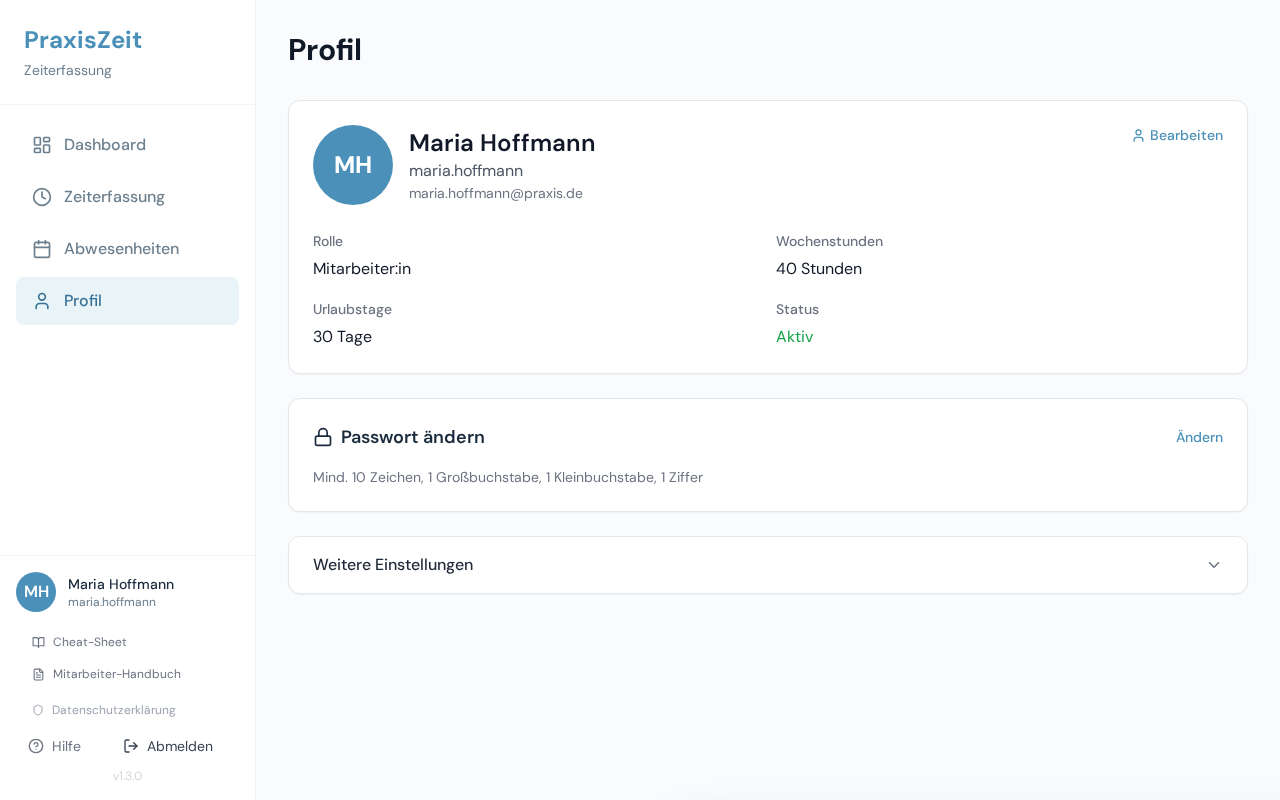
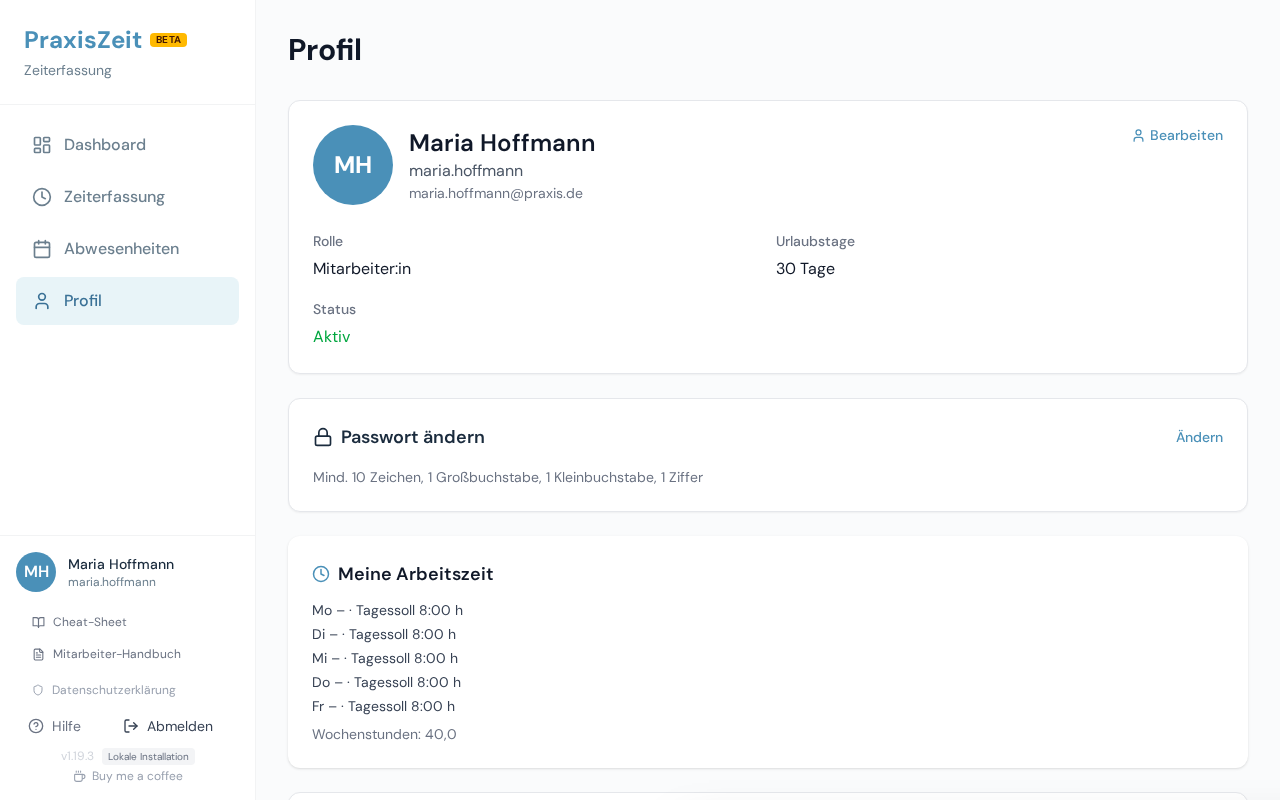
docs(screenshots): Demo-Person mit Arbeitszeit-Blöcken, Handbuch-Bilder 10/16/17 neu
Seed: Sarah Klein bekommt Blöcke 08–12 + 15–16 (Soll unverändert 25 h)
und zwei über die Mittagslücke durchgestempelte Montage, gekappt über den
echten clamp; die Blöcke je Tag kommen über den Resolver
(get_scheduled_blocks). Aufnahmeskripte öffnen den Block-Editor beim
Anlegen (mit der Beispielwoche aus dem Handbuch) und das
Bearbeiten-Formular der Demo-Person. Bild 10 (Profil) zeigt die Karte
„Meine Arbeitszeit" statt der Wochenstunden in den persönlichen Daten.

Über den Plan hinaus: Das Aufnahmeskript schließt das
Willkommens-Fenster (#132) neu angelegter Demo-Personen und wartet auf
den POST – sonst verdeckte es alle Mitarbeiter-Bilder. Lange Formulare
(16/17) werden mit bis zur Formular-Unterkante gestrecktem Fenster
aufgenommen, weil die App in <main> scrollt und fullPage nur das Fenster
zeigt. HANDBUCH-ERSTELLEN nennt Seed, Aufnahme und das Zurücksetzen des
Admin-Passworts für die E2E-Tests.

diff --git a/e2e/capture-handbook-screenshots.ts b/e2e/capture-handbook-screenshots.ts
@@ -9,7 +9,7 @@
  * Usage:
  *   cd e2e && npx tsx capture-handbook-screenshots.ts
  */
-import { chromium, Browser, Page } from '@playwright/test';
+import { chromium, Browser, Locator, Page } from '@playwright/test';
 import { mkdirSync } from 'fs';
 import { resolve } from 'path';
 
@@ -29,12 +29,63 @@ async function login(page: Page, username: string, password: string) {
   await page.getByRole('button', { name: /anmelden/i }).click();
   await page.waitForURL((url) => !url.pathname.startsWith('/login'), { timeout: 10_000 });
   await page.waitForLoadState('networkidle');
+  // #132: frisch angelegte Demo-Personen sehen beim ersten Login das
+  // Willkommens-Fenster (ganzseitige Überlagerung) — es verdeckte alle Bilder
+  // und schluckte die Klicks auf „Neuer Eintrag" usw. „Los geht's" schließt es
+  // dauerhaft (POST /auth/onboarding/complete), wie die E2E-Fixtures.
+  const welcome = page.getByRole('button', { name: "Los geht's" });
+  if (await welcome.waitFor({ state: 'visible', timeout: 3000 }).then(() => true).catch(() => false)) {
+    // Auf die Antwort warten: das nächste page.goto() bräche den POST sonst ab,
+    // und das Fenster stünde nach dem Neuladen wieder da.
+    await Promise.all([
+      page.waitForResponse((r) => r.url().includes('/auth/onboarding/complete'), { timeout: 5000 }),
+      welcome.click(),
+    ]).catch(() => console.log(`  ! Willkommens-Fenster für ${username} nicht geschlossen`));
+  }
 }
 
 async function shot(page: Page, name: string, opts: { fullPage?: boolean } = {}) {
   const path = resolve(SHOTS_DIR, `${name}.png`);
   await page.screenshot({ path, fullPage: opts.fullPage ?? true, type: 'png' });
   console.log(`  ✓ ${name}.png`);
+}
+
+/**
+ * Die App scrollt in ihrem Inhaltsbereich (`<main>`), nicht im Dokument —
+ * `fullPage` nimmt deshalb nur das Fenster auf, und ein langes Formular wäre
+ * abgeschnitten. Das Fenster wird für die Aufnahme bis zur Unterkante von
+ * `until` gestreckt und danach zurückgesetzt. Die Fokus-Markierung (Autofokus,
+ * zuletzt befülltes Feld) wird vorher entfernt.
+ */
+async function shotUntil(page: Page, name: string, until: Locator) {
+  const viewport = page.viewportSize() ?? DESKTOP;
+  await page.evaluate(() => (document.activeElement as HTMLElement | null)?.blur());
+  await until.evaluate((el) => {
+    for (let p = el.parentElement; p; p = p.parentElement) p.scrollTop = 0;
+  });
+  const box = await until.boundingBox();
+  if (box) {
+    await page.setViewportSize({ width: viewport.width, height: Math.ceil(box.y + box.height + 24) });
+    await page.waitForTimeout(300);
+  }
+  await shot(page, name, { fullPage: false });
+  await page.setViewportSize(viewport);
+}
+
+/** Beispielwoche aus dem Handbuch: Mo–Do 08:00–12:00 + 15:00–18:00 mit 30 Min
+ *  Pause (Tagessoll 6:30 h), Fr 08:00–13:00. */
+async function fillExampleBlocks(page: Page) {
+  for (const day of ['Mo', 'Di', 'Mi', 'Do', 'Fr']) {
+    const spans = day === 'Fr' ? [['08:00', '13:00']] : [['08:00', '12:00'], ['15:00', '18:00']];
+    for (const [n, [von, bis]] of spans.entries()) {
+      await page.getByRole('button', { name: `${day}: Block hinzufügen` }).click();
+      await page.getByLabel(`${day} Block ${n + 1} von`).fill(von);
+      await page.getByLabel(`${day} Block ${n + 1} bis`).fill(bis);
+    }
+    if (spans.length > 1) {
+      await page.getByLabel(`${day} Pause innerhalb der Blöcke (Min)`).fill('30');
+    }
+  }
 }
 
 async function captureEmployeeShots(browser: Browser) {
@@ -165,20 +216,33 @@ async function captureAdminShots(browser: Browser) {
     const newBtn = page.getByRole('button', { name: /neue:?r? ?mitarbeiter|neuer mitarbeiter|\+ mitarbeiter/i }).first();
     await newBtn.click({ timeout: 2000 });
     await page.waitForTimeout(500);
-    await shot(page, '16-admin-benutzer-formular');
+    // 1.20.0: Block-Editor zeigen (Modus „Nach Arbeitsblöcken") — mit der
+    // Beispielwoche, sonst stünden nur „kein Arbeitstag" und eine Fehlermeldung da.
+    const blockMode = page.getByText('Nach Arbeitsblöcken', { exact: true }).first();
+    if (await blockMode.isVisible().catch(() => false)) {
+      await blockMode.click();
+      await page.waitForTimeout(300);
+      await fillExampleBlocks(page).catch(() =>
+        console.log('  ! 16-admin-benutzer-formular: Block-Editor nicht befüllbar'));
+    }
+    await shotUntil(page, '16-admin-benutzer-formular', page.locator('form').first());
     const cancel = page.getByRole('button', { name: /abbrechen|schließen/i }).first();
     if (await cancel.isVisible().catch(() => false)) await cancel.click();
   } catch {
     console.log('  ! 16-admin-benutzer-formular: Button nicht gefunden');
   }
 
-  // 17 Benutzer bearbeiten (click erster User-Row)
+  // 17 Benutzer bearbeiten — Demo-Person mit Arbeitszeit-Blöcken (Sarah Klein)
   try {
     await page.waitForTimeout(500);
-    const editBtn = page.getByRole('button', { name: /bearbeiten/i }).first();
+    const kleinRow = page.getByRole('row', { name: /Klein/ }).first();
+    const editBtn = (await kleinRow.isVisible().catch(() => false))
+      ? kleinRow.getByRole('button', { name: /bearbeiten/i }).first()
+      : page.getByRole('button', { name: /bearbeiten/i }).first();
     await editBtn.click({ timeout: 2000 });
     await page.waitForTimeout(500);
-    await shot(page, '17-admin-benutzer-bearbeiten');
+    // Ganzes Formular: oben „Arbeitszeit anpassen…", unten „Arbeitszeit heute".
+    await shotUntil(page, '17-admin-benutzer-bearbeiten', page.locator('form').first());
     const cancel = page.getByRole('button', { name: /abbrechen|schließen/i }).first();
     if (await cancel.isVisible().catch(() => false)) await cancel.click();
   } catch {

diff --git a/tools/handbook/handbuch-screenshots.js b/tools/handbook/handbuch-screenshots.js
@@ -173,25 +173,31 @@ async function clickButtonByText(page, texts) {
     await shot(ap, '15-admin-benutzer.png', true);
 
     // 16 Neuen Benutzer anlegen
-    await clickButtonByText(ap, ['Neuer Benutzer', 'Benutzer anlegen', 'Neuen Mitarbeiter', 'Hinzufügen', '+']);
+    await clickButtonByText(ap, ['Neue:r Mitarbeiter:in', 'Neuer Benutzer', 'Benutzer anlegen', 'Neuen Mitarbeiter', 'Hinzufügen', '+']);
     await sleep(1000);
+    await ap.evaluate(() => {
+      const el = [...document.querySelectorAll('label, button')]
+        .find(e => e.textContent.trim() === 'Nach Arbeitsblöcken');
+      if (el) el.click();
+    });
+    await sleep(500);
     await shot(ap, '16-admin-benutzer-formular.png', true);
     await ap.keyboard.press('Escape');
     await sleep(500);
 
     // 17 Einen Benutzer bearbeiten (erneut Formular-Screenshot)
     await goto(ap, '/admin/users');
-    // Klick auf den ersten "Bearbeiten"-Button mit direktem Selektor
+    // Bearbeiten-Button in der Zeile der Demo-Person mit Arbeitszeit-Blöcken (Sarah Klein)
     try {
-      const editBtns = await ap.$$('button');
-      for (const btn of editBtns) {
-        const text = await ap.evaluate(el => el.textContent.trim(), btn);
-        if (text.includes('Bearbeiten') || text.includes('Edit')) {
-          await btn.click();
-          await sleep(1000);
-          break;
-        }
-      }
+      const clicked = await ap.evaluate(() => {
+        const row = [...document.querySelectorAll('tr')].find(tr => tr.textContent.includes('Klein'));
+        const btn = row && [...row.querySelectorAll('button')].find(b =>
+          (b.getAttribute('aria-label') || b.title || b.textContent || '').includes('Bearbeiten'));
+        if (btn) { btn.click(); return true; }
+        return false;
+      });
+      if (!clicked) console.log('  ~ Zeile „Klein" mit Bearbeiten-Button nicht gefunden');
+      await sleep(1000);
     } catch(e) { console.log('  ~ Kein Bearbeiten-Button gefunden'); }
     await shot(ap, '17-admin-benutzer-bearbeiten.png', true);
     await ap.keyboard.press('Escape');

diff --git a/backend/create_handbuch_testdata.py b/backend/create_handbuch_testdata.py
@@ -18,6 +18,8 @@ from app.models import (
 from app.models.change_request import ChangeRequestStatus, ChangeRequestType
 from app.models.user import UserRole
 from app.services import auth_service
+from app.services import work_window_service
+from app.services.work_blocks_service import derive_targets
 
 random.seed(42)  # Reproduzierbar
 
@@ -64,6 +66,13 @@ EMPLOYEES = [
         "track_hours": True,
         "is_night_worker": False,
         "exempt_from_arbzg": False,
+        # 1.20.0: Demo für Handbuch-Screenshots 16/17 — Vormittag + Nachmittag mit
+        # Mittagslücke; Tagessoll 4 h + 1 h = 5 h, also unverändert 25 h/Woche.
+        "work_blocks": [
+            {"blocks": [{"start": "08:00", "end": "12:00"}, {"start": "15:00", "end": "16:00"}],
+             "pause_minutes": 0}
+            for _ in range(5)
+        ],
     },
     {
         "username": "petra.schulz",
@@ -97,6 +106,10 @@ EMPLOYEES = [
 START_DATE = date(2026, 1, 5)   # Erster Arbeitstag (Mo nach Neujahr)
 END_DATE   = date(2026, 2, 27)  # Gestern (Fr)
 
+# Tage, an denen die Demo-Person über die Mittagslücke durchstempelt — erzeugt die
+# Zusatzzeile „… zwischen den Blöcken nicht angerechnet" im Handbuch.
+BLOCK_DEMO_THROUGH_DAYS = {date(2026, 2, 9), date(2026, 2, 23)}
+
 
 def get_holiday_dates(db) -> set:
     holidays = db.query(PublicHoliday).filter(
@@ -106,12 +119,67 @@ def get_holiday_dates(db) -> set:
     return {h.date for h in holidays}
 
 
+def _apply_work_blocks(db, user: User, emp: dict) -> None:
+    """Setzt Arbeitszeit-Blöcke samt abgeleitetem Soll (Spec 4.1, E9).
+
+    ``users.work_blocks`` ist der Rückfall vor der ersten Verlaufszeile — die
+    Demo-Person hat keine Verlaufszeile, also gelten diese Blöcke für den ganzen
+    Demo-Zeitraum. Soll-Felder über ``derive_targets`` wie im Anlege-Pfad, damit
+    Blöcke und Tagessoll zusammenpassen."""
+    blocks = emp.get("work_blocks")
+    if not blocks:
+        return
+    user.work_blocks = blocks
+    for field, value in derive_targets(blocks).items():
+        setattr(user, field, value)
+    db.commit()
+
+
+def _minutes_to_time(minutes: int) -> dt_time:
+    return dt_time(minutes // 60, minutes % 60)
+
+
+def create_block_entries_for_user(db, user: User, work_days: list) -> int:
+    """Je Arbeitstag ein Eintrag je Block; an BLOCK_DEMO_THROUGH_DAYS ein Eintrag
+    vom ersten Blockbeginn bis zum letzten Blockende. Die Blöcke kommen über den
+    Resolver (``work_window_service.get_scheduled_blocks``), gekappt wird über
+    den echten ``clamp`` (Puffer aus den Einstellungen), wie jeder Schreibpfad
+    es tut."""
+    grace = work_window_service.get_grace_minutes(db, TENANT_ID)
+    count = 0
+    for d in work_days:
+        day_blocks = work_window_service.get_scheduled_blocks(db, user, d)
+        if not day_blocks:
+            continue
+        if d in BLOCK_DEMO_THROUGH_DAYS:
+            spans = [(day_blocks[0][0], day_blocks[-1][1])]
+        else:
+            spans = list(day_blocks)
+        for start_min, end_min in spans:
+            r = work_window_service.clamp(
+                db, user, d, _minutes_to_time(start_min), _minutes_to_time(end_min),
+                grace, credit_override=False,
+            )
+            db.add(TimeEntry(
+                tenant_id=TENANT_ID, user_id=user.id, date=d,
+                start_time=r.eff_start, end_time=r.eff_end,
+                raw_start_time=r.raw_start, raw_end_time=r.raw_end,
+                uncredited_minutes=r.uncredited_minutes,
+                clamp_grace_minutes=r.grace_minutes,
+                break_minutes=0, note="",
+            ))
+            count += 1
+    db.commit()
+    return count
+
+
 def create_employees(db) -> list:
     created = []
     for emp in EMPLOYEES:
         existing = db.query(User).filter(User.username == emp["username"]).first()
         if existing:
             print(f"  ~ {emp['first_name']} {emp['last_name']} existiert bereits (übersprungen)")
+            _apply_work_blocks(db, existing, emp)
             created.append(existing)
             continue
 
@@ -136,6 +204,7 @@ def create_employees(db) -> list:
         db.add(u)
         db.commit()
         db.refresh(u)
+        _apply_work_blocks(db, u, emp)
         created.append(u)
         print(f"  ✓ {emp['first_name']} {emp['last_name']} ({emp['weekly_hours']}h/Woche) angelegt")
     return created
@@ -199,6 +268,11 @@ def create_time_entries_for_user(db, user: User, holiday_dates: set):
 
     work_days = working_days_in_range(START_DATE, END_DATE, holiday_dates,
                                       user.work_days_per_week)
+    if getattr(user, "work_blocks", None):
+        count = create_block_entries_for_user(
+            db, user, [d for d in work_days if d not in absence_dates])
+        print(f"    ✓ {count} Zeiteinträge nach Arbeitszeit-Blöcken erstellt")
+        return
 
     count = 0
     for d in work_days:

diff --git a/docs/handbuch/HANDBUCH-ERSTELLEN.md b/docs/handbuch/HANDBUCH-ERSTELLEN.md
@@ -51,6 +51,16 @@ Screenshots werden mit **Playwright** automatisiert aufgenommen. Die App muss lo
 docker-compose up -d
 ```
 
+Demo-Daten und Aufnahme (Musterpraxis, Januar/Februar 2026; Sarah Klein ist die Demo-Person mit Arbeitszeit-Blöcken 08:00–12:00 + 15:00–16:00 und zwei über die Mittagslücke durchgestempelten Montagen):
+
+```bash
+docker compose cp backend/create_handbuch_testdata.py backend:/app/create_handbuch_testdata.py
+docker compose exec -T backend python create_handbuch_testdata.py </dev/null
+cd e2e && npx --yes tsx capture-handbook-screenshots.ts
+```
+
+Das Seed-Skript läuft nur gegen PostgreSQL und setzt das Admin-Passwort auf `Admin2026!` (Mitarbeitende: `Mitarbeiter2026!`). Die E2E-Tests erwarten `Admin2025!` – danach zurücksetzen. Das Aufnahmeskript nimmt alle Bilder neu auf; nur die tatsächlich geänderten committen (`git restore docs/handbuch/screenshots/` für den Rest).
+
 #### Mitarbeiter-Screenshots (als Employee einloggen oder als Admin mit Employee-Sicht)
 
 | Datei | URL | Beschreibung |
@@ -64,7 +74,7 @@ docker-compose up -d
 | `07-ma-abwesenheit-formular.png` | `/absences` | Formular „+ Abwesenheit eintragen" |
 | `08-ma-korrekturantraege.png` | `/time-tracking` (Tab: Anträge) | Änderungsanträge-Tab leer |
 | `09-ma-korrekturantrag-modal.png` | `/time-tracking` | Modal nach Klick auf „Änderungsantrag" bei gesperrtem Eintrag |
-| `10-ma-profil.png` | `/profile` | Profilseite |
+| `10-ma-profil.png` | `/profile` | Profilseite (persönliche Daten, Karte „Meine Arbeitszeit") |
 | `11-ma-mobile-dashboard.png` | `/` | Mobil (390px) – Dashboard |
 | `12-ma-mobile-zeiterfassung.png` | `/time-tracking` | Mobil (390px) – Zeiterfassung |
 | `13-ma-mobile-menu.png` | beliebig | Mobil (390px) – Hamburger-Menü offen |
@@ -75,8 +85,8 @@ docker-compose up -d
 |-------|-----|-------------|
 | `14-admin-dashboard.png` | `/admin` | Admin-Dashboard mit Teamübersicht |
 | `15-admin-benutzer.png` | `/admin/users` | Benutzerliste |
-| `16-admin-benutzer-formular.png` | `/admin/users` | Formular „Neue:r Mitarbeiter:in" |
-| `17-admin-benutzer-bearbeiten.png` | `/admin/users` | Bearbeiten-Formular eines Benutzers |
+| `16-admin-benutzer-formular.png` | `/admin/users` | Formular „Neue:r Mitarbeiter:in", Modus „Nach Arbeitsblöcken" (Block-Editor mit Beispielwoche) |
+| `17-admin-benutzer-bearbeiten.png` | `/admin/users` | Bearbeiten-Formular der Demo-Person mit Arbeitszeit-Blöcken (Sarah Klein, „Arbeitszeit heute: …") |
 | `18-admin-abwesenheitskalender.png` | `/admin/absences` | Abwesenheitskalender Admin |
 | `19-admin-berichte.png` | `/admin/reports` | Berichte & Export |
 | `20-admin-korrekturantraege.png` | `/admin/change-requests` | Korrekturanträge-Liste |
